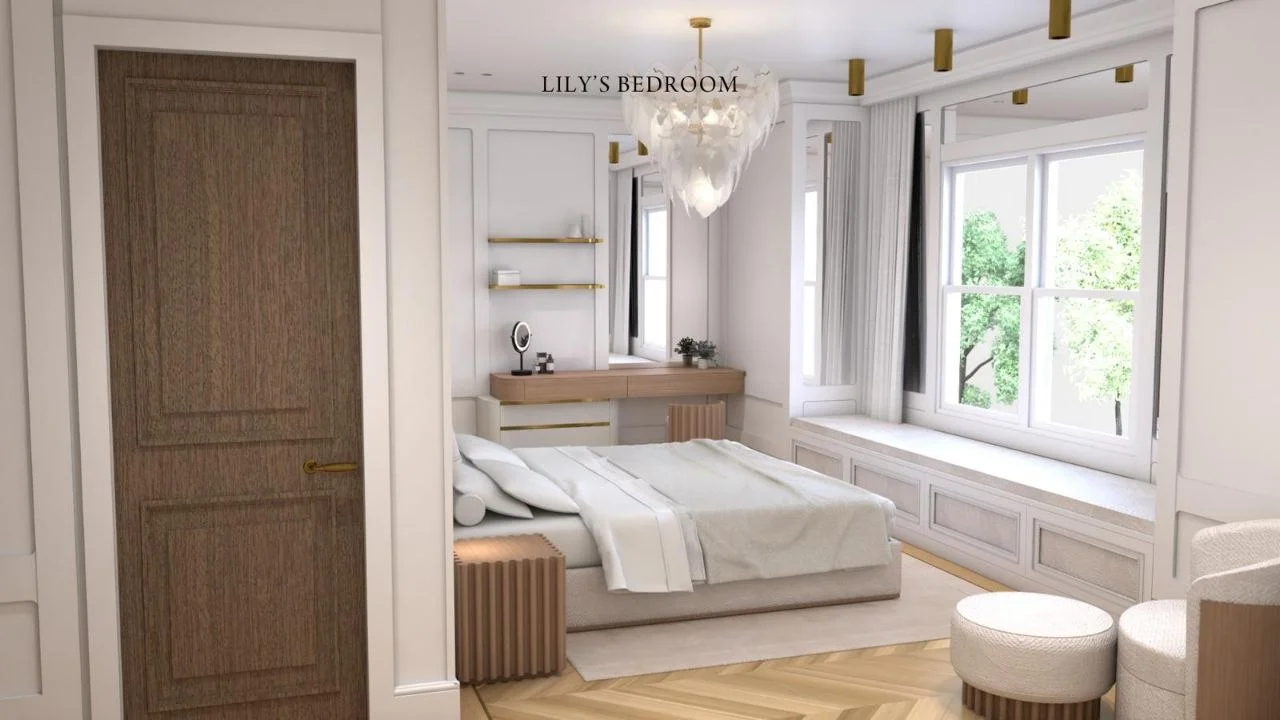
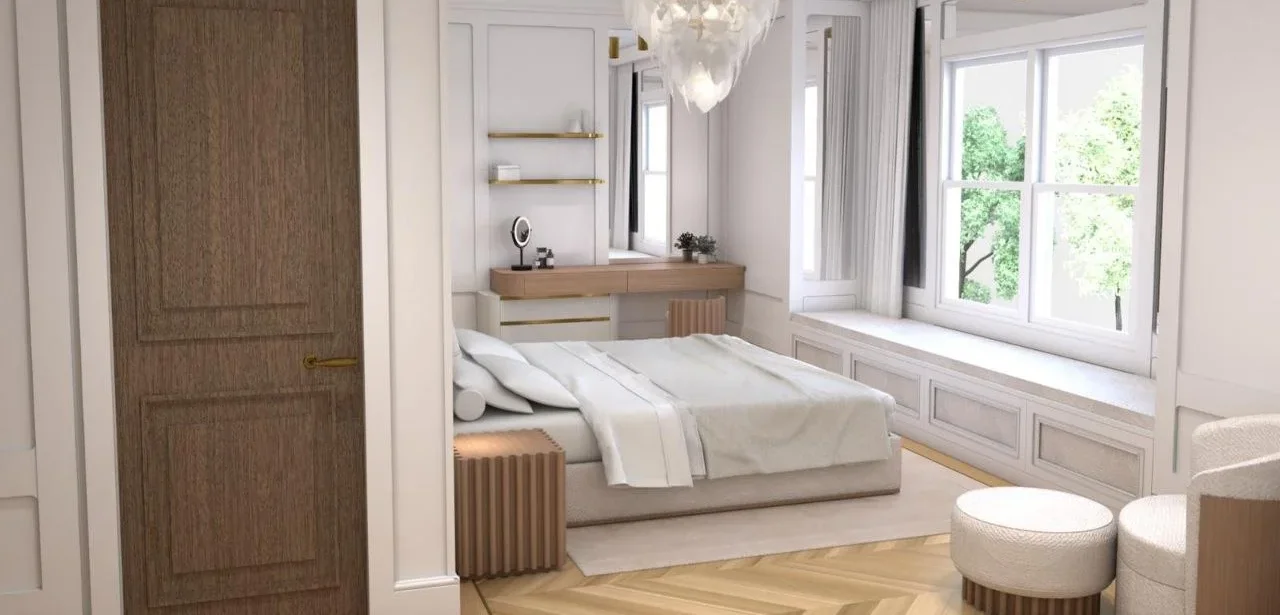
imagenes recortadas

diff --git a/index.html b/index.html
@@ -30,7 +30,7 @@
                 <li><a href="#kavana">Kavanah</a></li>
                 <li><a href="#portafolio">Portfolio</a></li></li>
                 <li><a href="#Cartografia">Cartografia</a></li>
-                <li><a href="#contactanos">Contactanos</a></li>
+                <li><a href="#contactanos">Contáctanos</a></li>
             </ul>
         </nav>
     </header>
@@ -56,21 +56,21 @@
                 <div class="contenedor">
                     <img src="img/20.webp" alt="imagen de la tarjeta">
                     <h4> ARQUITECTURA</h4>
-                    <a href="#contactanos">Contactanos</a>
+                    <a href="#contactanos">Contáctanos</a>
                 </div>
             </div>
              <div class="card">
                 <div class="contenedor">
                     <img src="img/21.webp" alt="imagen de la tarjeta">
                     <h4>INTERIORISMO</h4>
-                    <a href="#contactanos">Contactanos</a>
+                    <a href="#contactanos">Contáctanos</a>
                 </div>
             </div>
              <div class="card">
                 <div class="contenedor">
                     <img src="img/19.webp" alt="imagen de la tarjeta">
                     <h4>DISEÑO DE MOBILIARIO</h4>
-                    <a href="#contactanos">Contactanos</a>
+                    <a href="#contactanos">Contáctanos</a>
                 </div>
             </div>
         </section>
@@ -99,7 +99,7 @@
                         <hr>
                     </div>
                     <p>Buscamos desde los elementos más pequeños crear puntos de referencia que ofrezcan carácter e identidad, como la trama de la cerámica, el contraste de materiales con precisión y llenos de intención.. </p>
-                    <a class="service" href="#contactanos">Contactanos</a>
+                    <a class="service" href="#contactanos">Contáctanos</a>
                 </div>
             </div>
         </section>

diff --git a/script.js b/script.js
@@ -2,7 +2,7 @@ document.addEventListener("DOMContentLoaded", () => {
     // 1. Lista de imágenes disponibles en tu carpeta img
     // Puedes agregar o quitar nombres de archivos según lo que tengas en tu carpeta
     const misImagenes = [
-        "img/20.WEBP", "img/17.webp", "img/18.webp", "img/19.webp", "img/23.webp", "img/23.webp", "img/24 (2).webp", "img/24.webp", "img/25.webp", "img/26.webp", "img/27.webp", "img/28.webp", "img/29.webp", "img/30.webp", "img/31.webp", "img/32.webp", "img/33.webp", "img/34.webp", "img/35.webp", "img/36.webp", "img/37.webp", "img/38.webp", "img/39.webp", "img/40.webp", "img/41.webp", "img/42.webp", "img/43.webp", "img/44.webp"
+        "img/46.webp, img/44.webp, img/45.webp, img/47.webp, img/48.webp, img/41.webp, img/34.webp, img/35.webp, img/23.webp img/25.webp"
     ];
 
     /**
